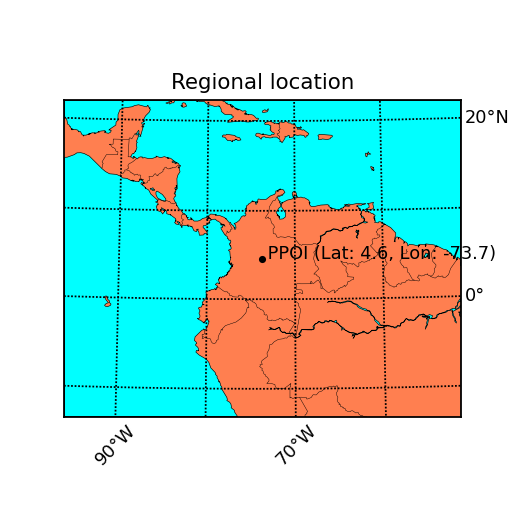
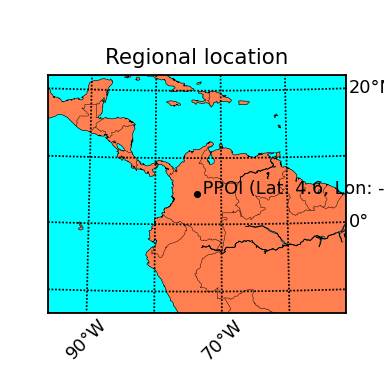
General update.

Changed region(s): [[0.125, 0.125, 1.0, 0.9375], [0.125, 0.375, 0.1562, 0.4375], [0.6875, 0.8125, 0.7188, 0.8438]]

diff --git a/.src/sawb.py b/.src/sawb.py
@@ -119,12 +119,12 @@ sawbf.print_log(file_log, '\n%s \n\n' %sawbd.p_max_plot_desc)
 projection = ['ortho', 'lcc']
 for i in projection:
     if i == 'ortho':
-        fig = plt.figure(figsize=(4, 4))
+        fig = plt.figure(figsize=(3, 3))
         title = 'Global location'
         map_file = 'global_map.png'
         meridians_sep = meridians_sep * 2
     else:
-        fig = plt.figure(figsize=(4, 4))
+        fig = plt.figure(figsize=(3, 3))
         title = 'Regional location'
         map_file = 'regional_map.png'
         meridians_sep = meridians_sep
